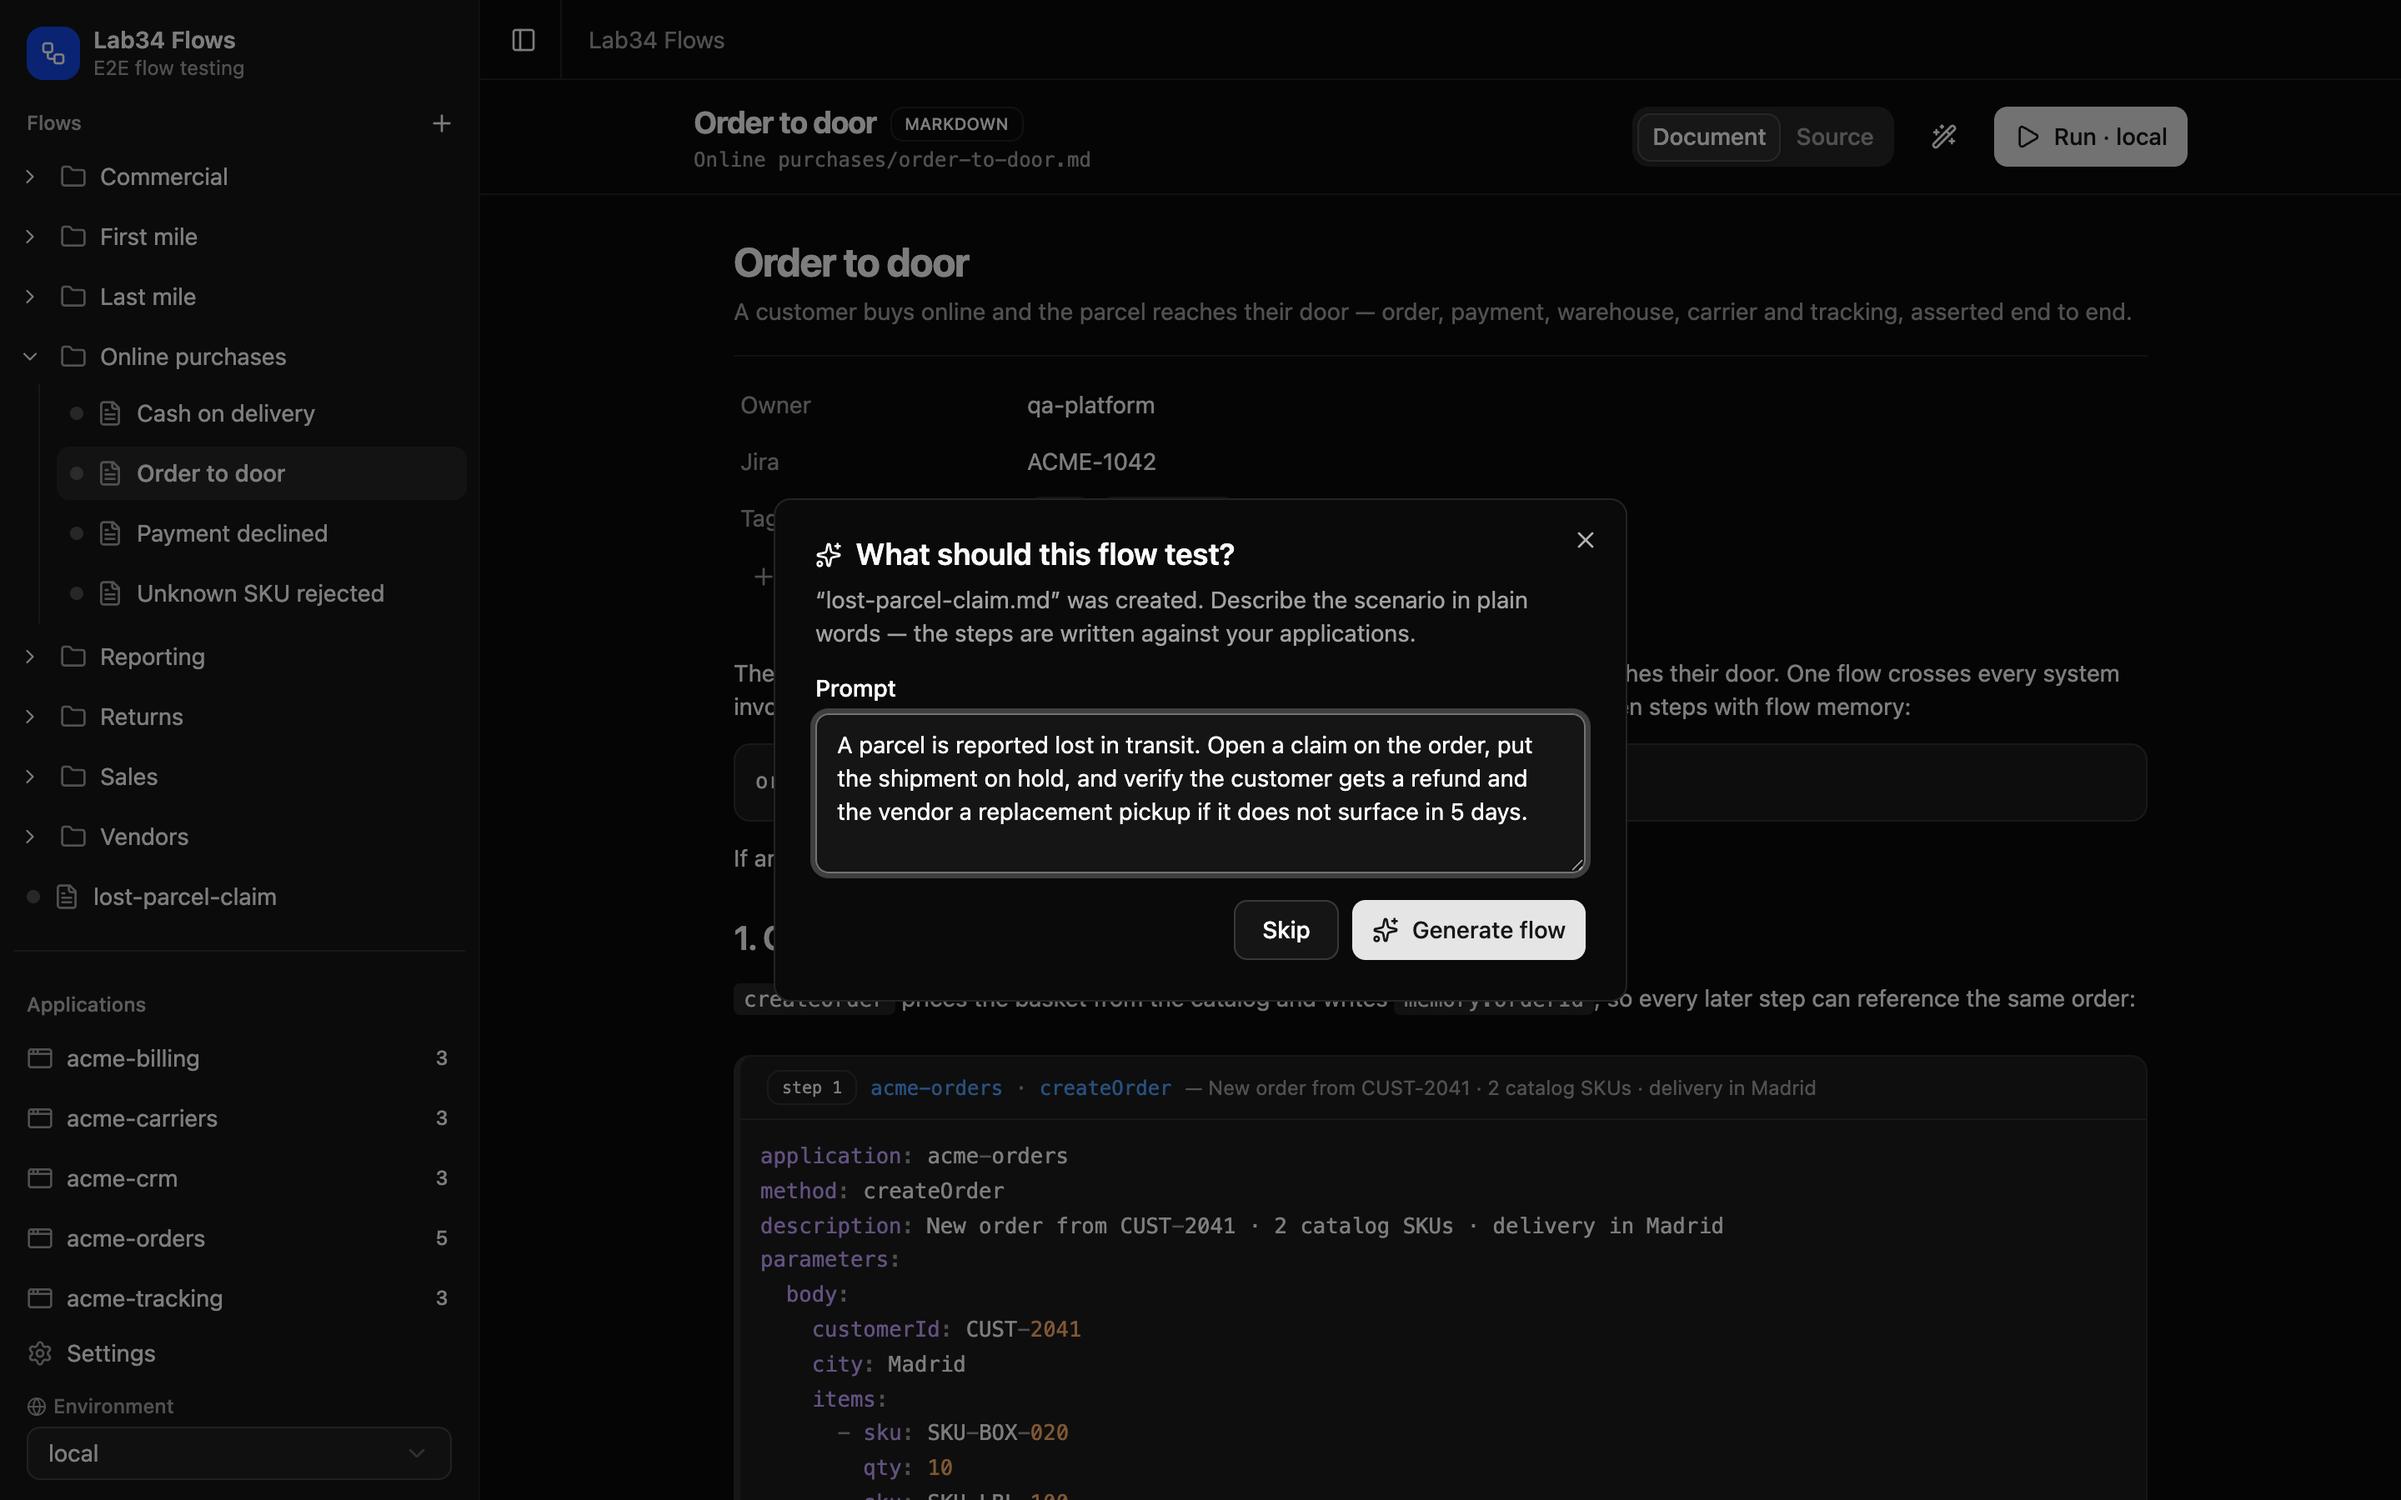
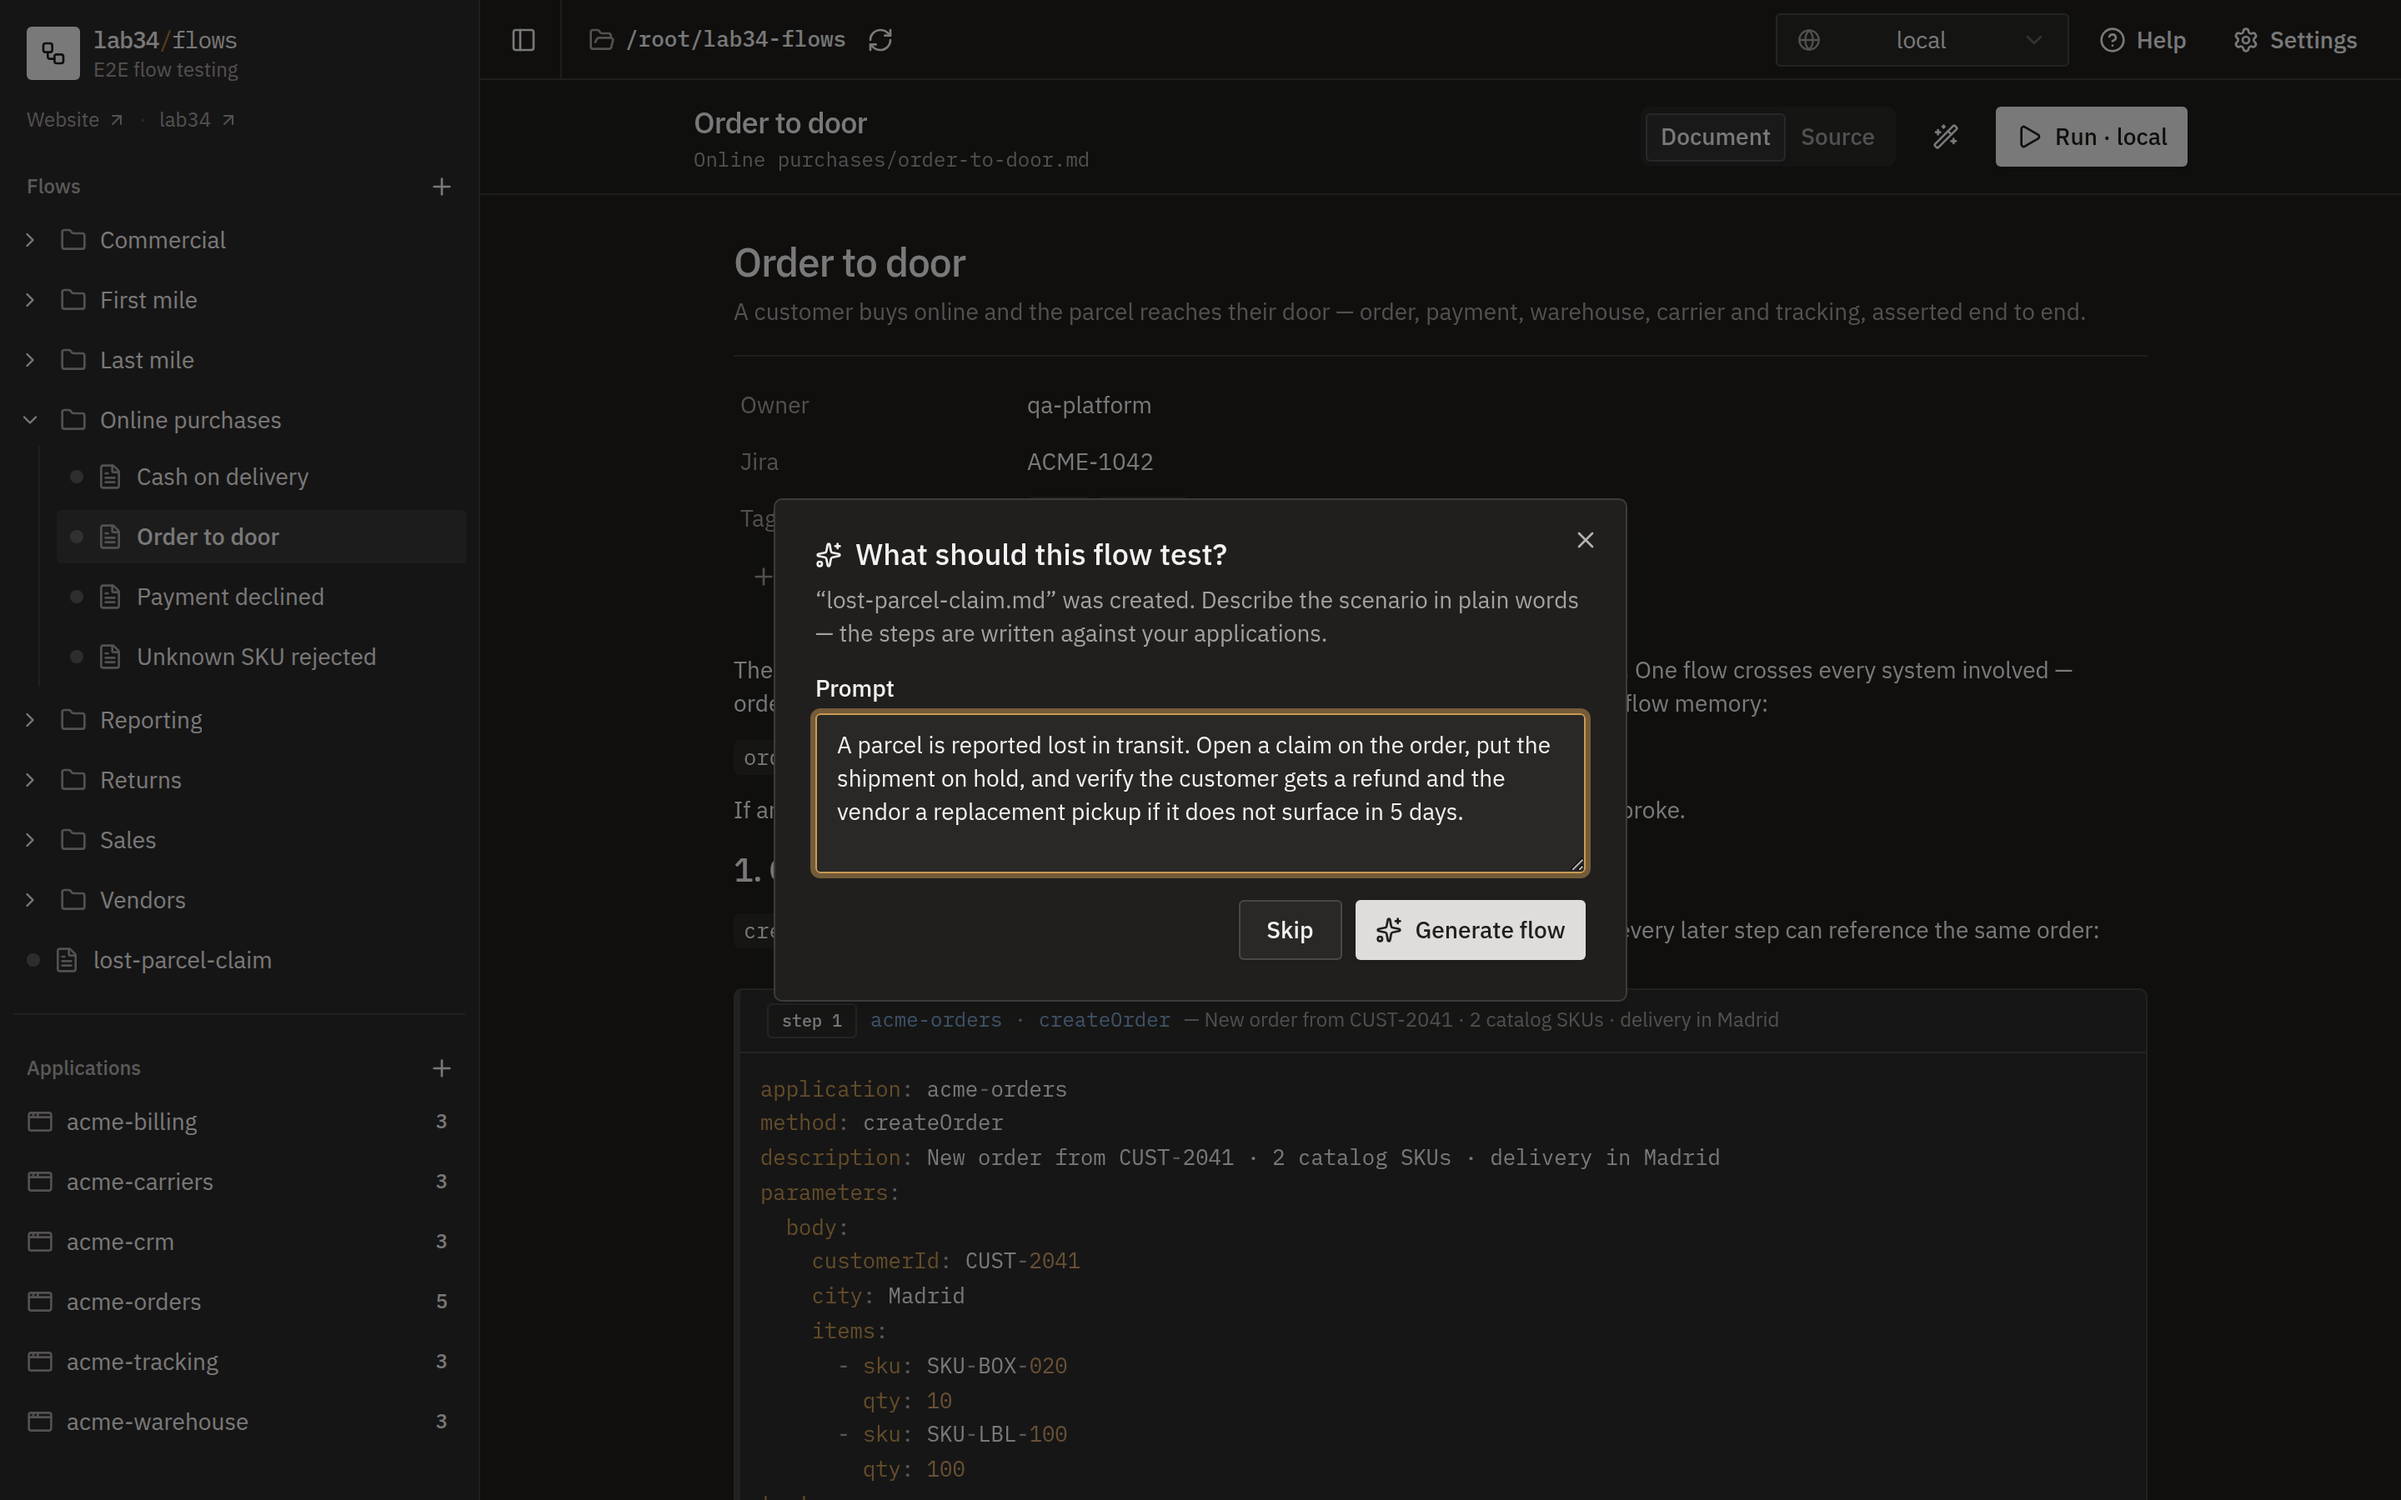
Refresh the website screenshots with the rebranded UI
The eight captures on the landing page now show the lab34-styled app on
the same demo scenario (the order-to-door flow after a run, the last-mile
folder views, and both AI dialogs), in light and dark. Two extra views
(home and settings) join them, and the README links all six views in a
screenshot table after the description so they render on GitHub.

Claude-Session: https://claude.ai/code/session_01PYi9V55Tpc2CtKa37BxgxS

diff --git a/README.md b/README.md
@@ -14,6 +14,11 @@ Heavily opinionated tool to help you test E2E flows and behaviours.
 > Run on any environment (staging, production, etc).
 > From Async protocols, APIs and databases, to web applications.
 
+|  | Home | Flow | Folder | AI create | AI edit | Settings |
+| --- | --- | --- | --- | --- | --- | --- |
+| Light | [![Home, light theme](website/src/assets/screenshots/home-light.png)](website/src/assets/screenshots/home-light.png) | [![A flow after a run, light theme](website/src/assets/screenshots/flow-light.png)](website/src/assets/screenshots/flow-light.png) | [![A folder as a table, light theme](website/src/assets/screenshots/folder-light.png)](website/src/assets/screenshots/folder-light.png) | [![Create a flow with AI, light theme](website/src/assets/screenshots/ai-create-light.png)](website/src/assets/screenshots/ai-create-light.png) | [![Edit a flow with AI, light theme](website/src/assets/screenshots/ai-edit-light.png)](website/src/assets/screenshots/ai-edit-light.png) | [![Settings, light theme](website/src/assets/screenshots/settings-light.png)](website/src/assets/screenshots/settings-light.png) |
+| Dark | [![Home, dark theme](website/src/assets/screenshots/home-dark.png)](website/src/assets/screenshots/home-dark.png) | [![A flow after a run, dark theme](website/src/assets/screenshots/flow-dark.png)](website/src/assets/screenshots/flow-dark.png) | [![A folder as a table, dark theme](website/src/assets/screenshots/folder-dark.png)](website/src/assets/screenshots/folder-dark.png) | [![Create a flow with AI, dark theme](website/src/assets/screenshots/ai-create-dark.png)](website/src/assets/screenshots/ai-create-dark.png) | [![Edit a flow with AI, dark theme](website/src/assets/screenshots/ai-edit-dark.png)](website/src/assets/screenshots/ai-edit-dark.png) | [![Settings, dark theme](website/src/assets/screenshots/settings-dark.png)](website/src/assets/screenshots/settings-dark.png) |
+
 Features:
 
 - Define flows as **Markdown documents**: write any content — prose, headings, lists — and mark the executable steps as ```` ```step ```` code blocks.
